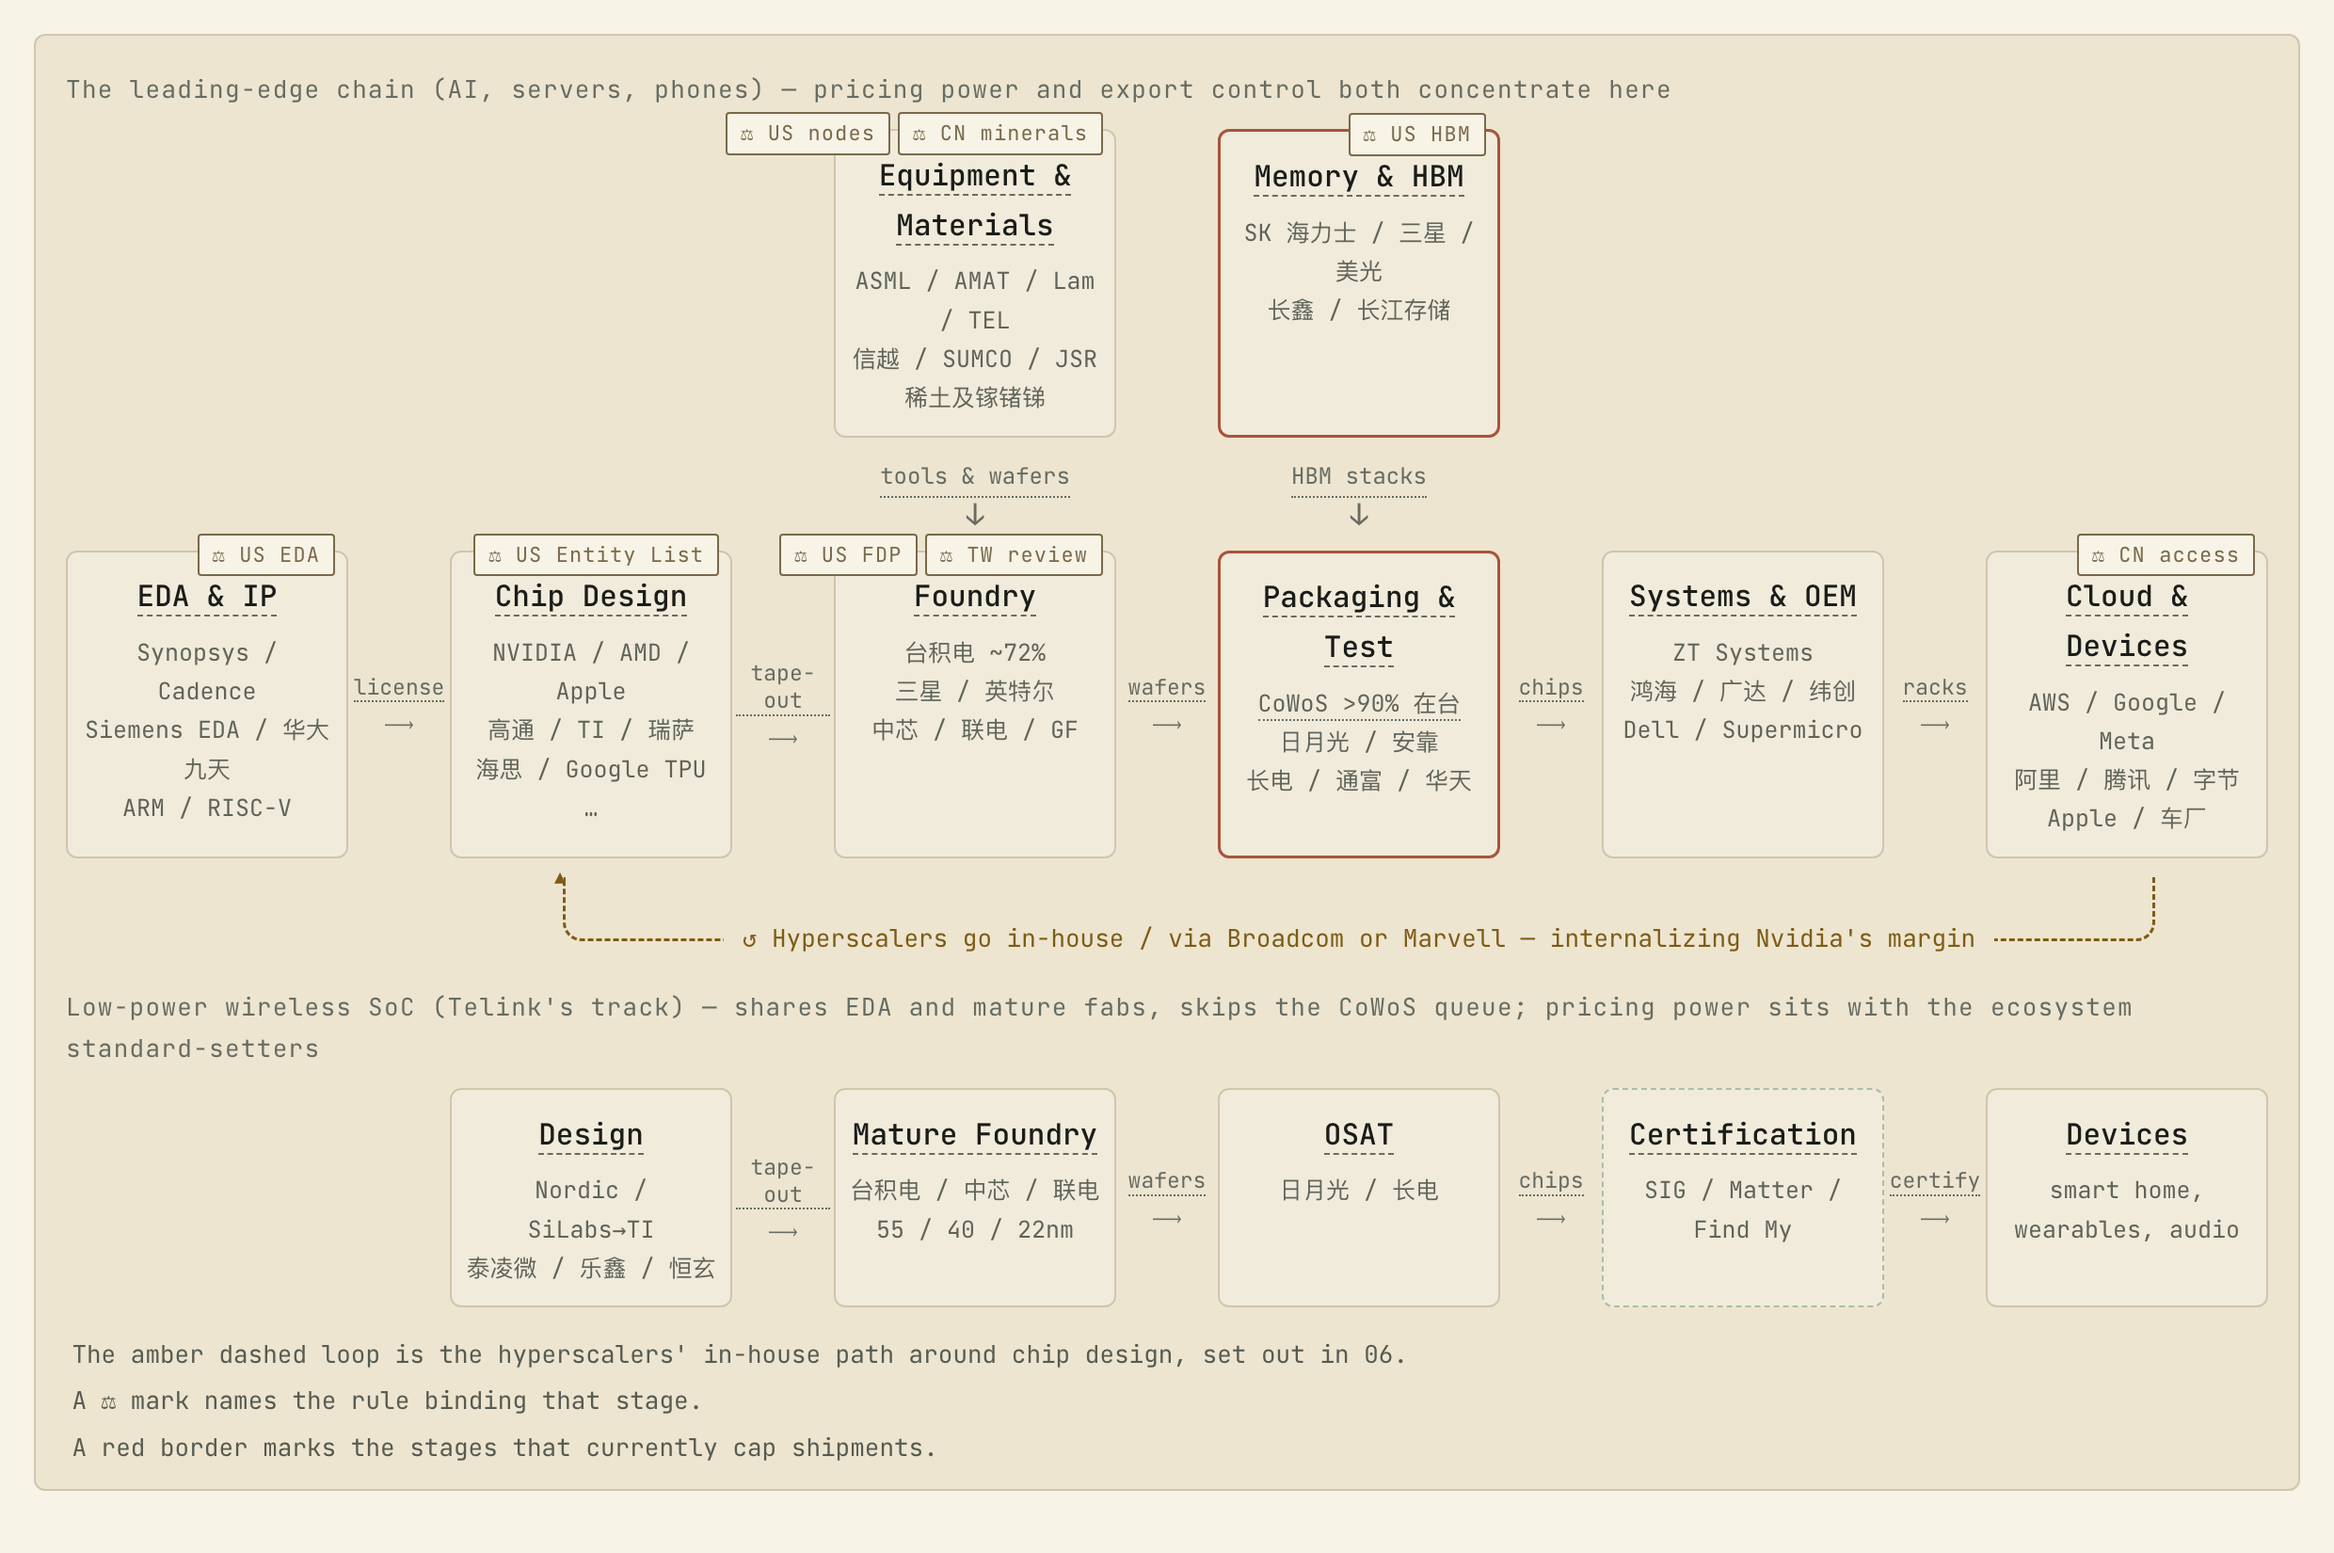
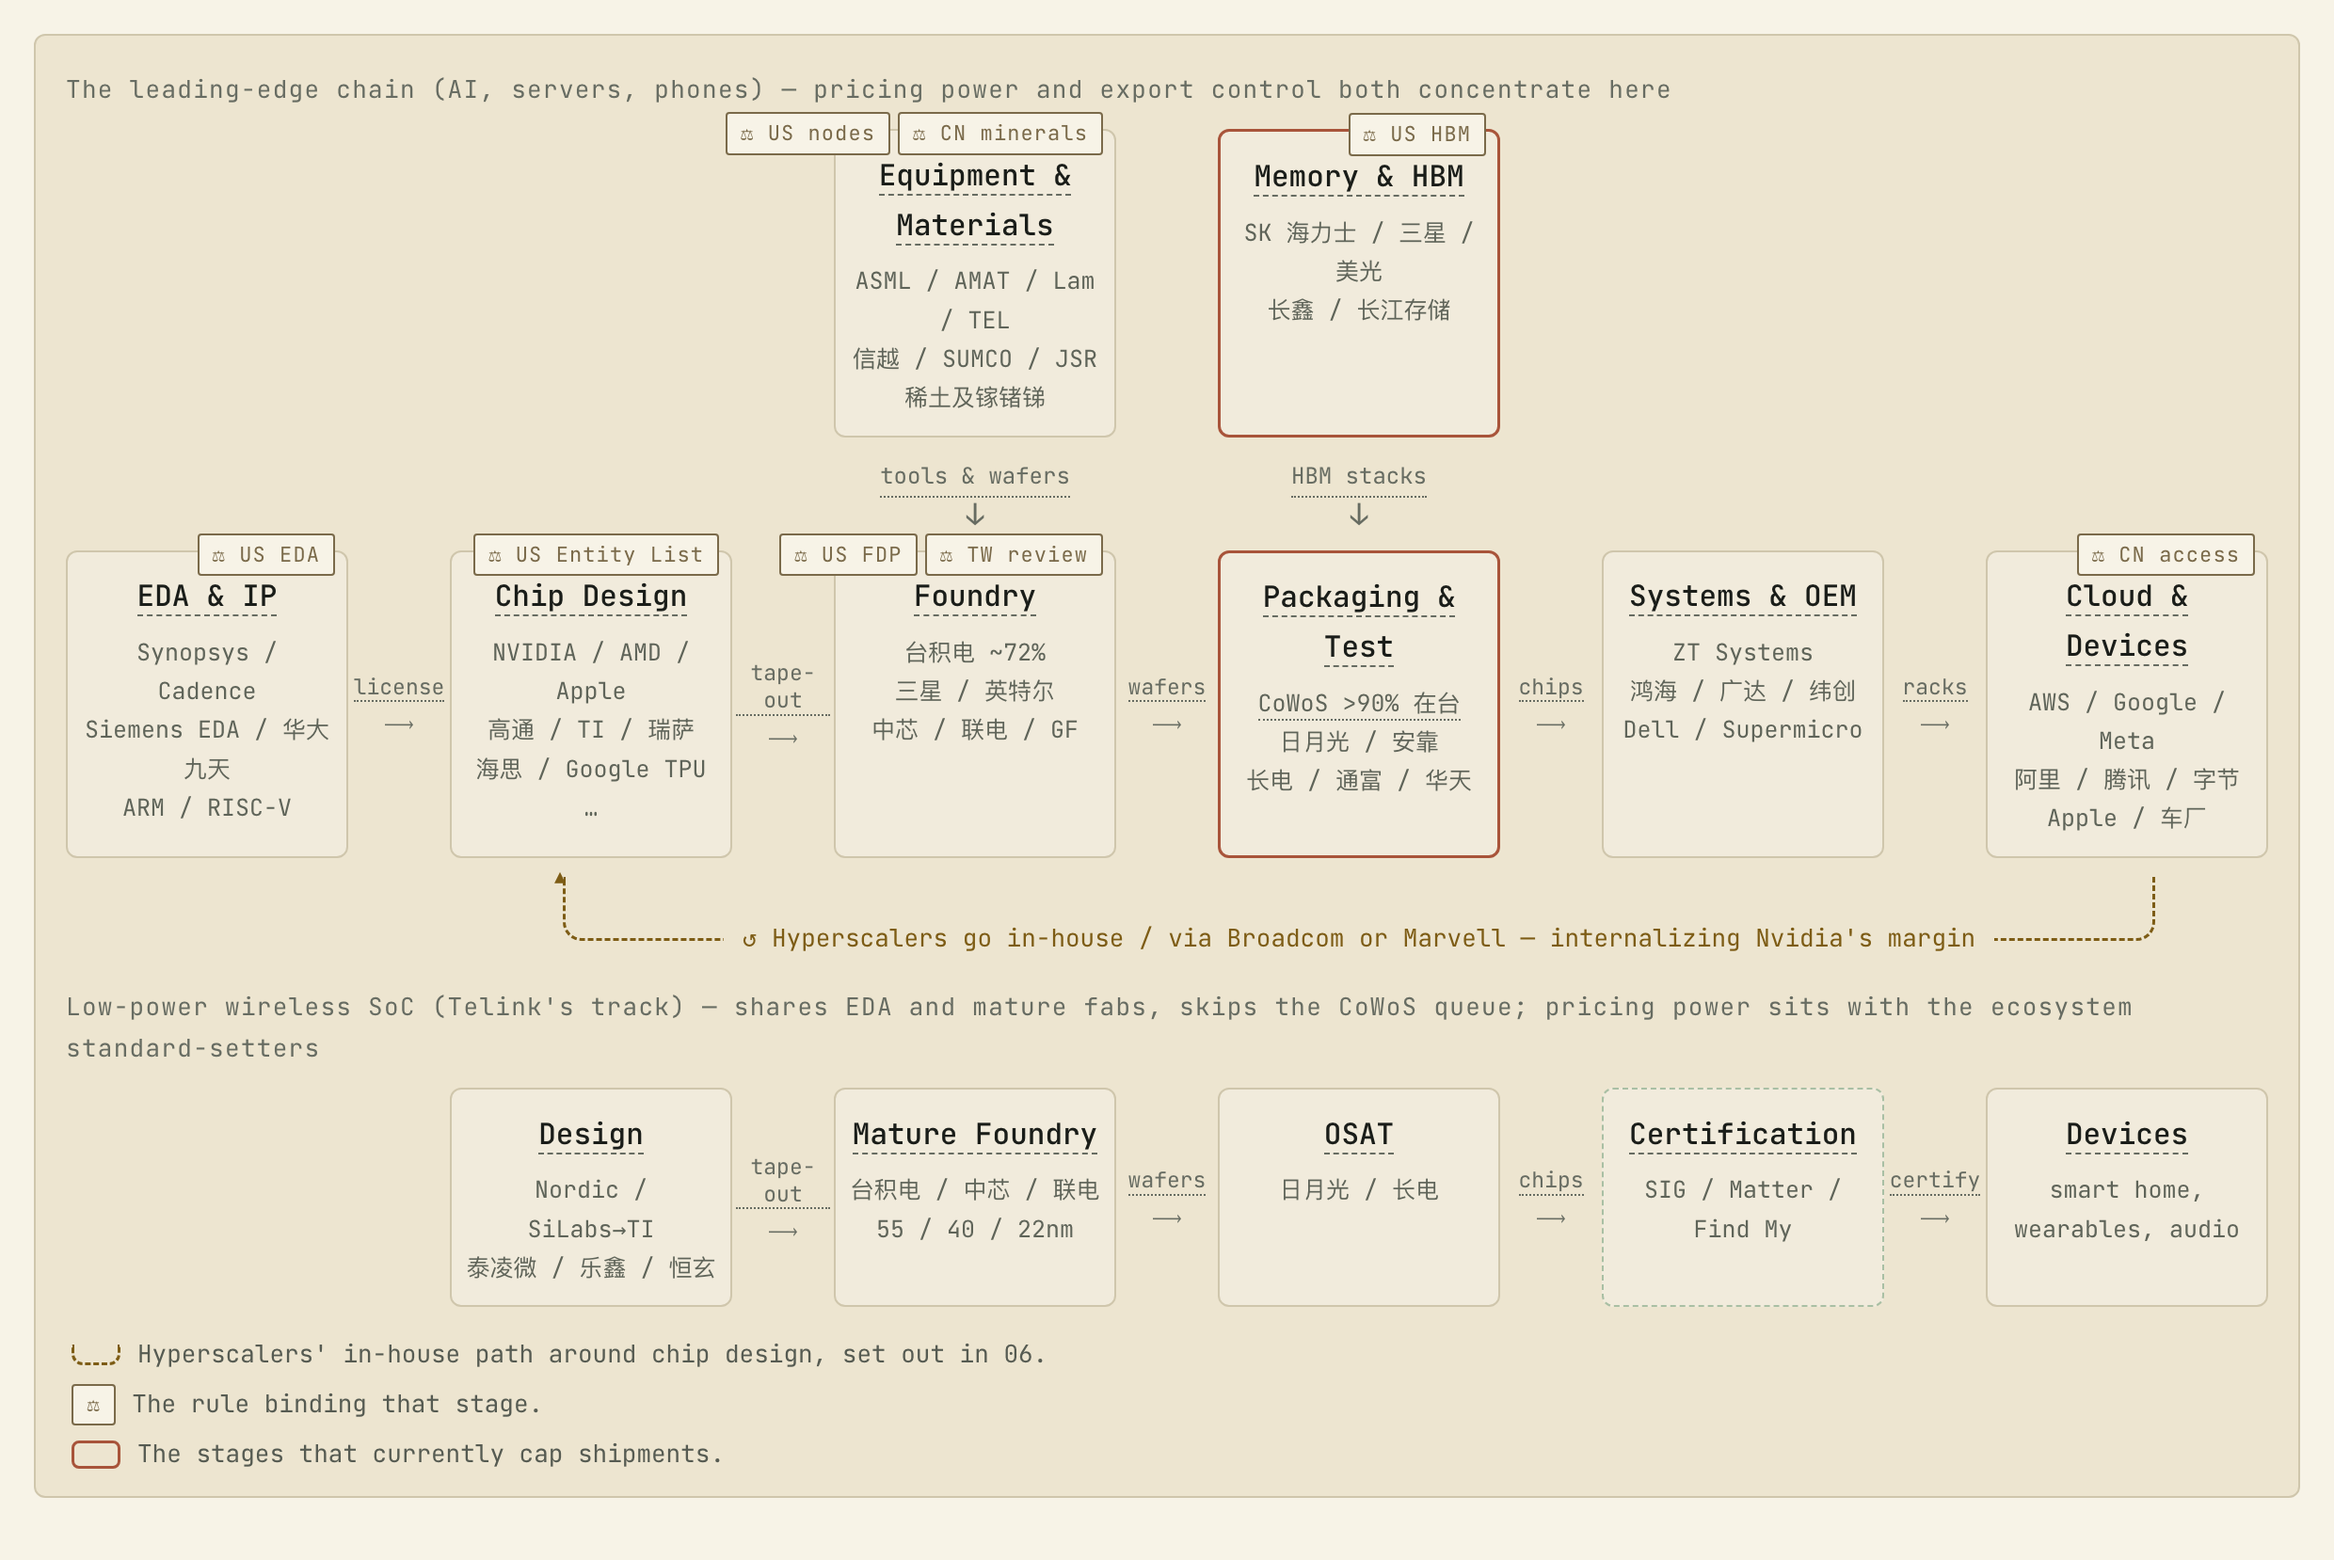
semis: draw the legend marks instead of describing them; lift tooltips over the filter bar
Caption: each line now carries the actual mark — the amber dashed loop,
the ⚖ pill, a red-bordered box — so the words only say what it means.
"琥珀色虚线为" and "红框标注" are gone with the descriptions.

Tooltips: .filterbar is position:sticky with z-index 40 and .tg-tip-box
was also 40, so with the filter bar now below the map in the DOM it won
on source order and painted over the jurisdiction tooltips, which open
downward into it. Base tooltip z-index goes to 60 — verified with
elementFromPoint over all three jurisdiction cards and the chips, none
covered. The two z-index:60 patches in the mobile block existed only for
this fight and come out.

Figures re-captured.

diff --git a/quartz/static/semis/value-chain-map.html b/quartz/static/semis/value-chain-map.html
@@ -76,7 +76,7 @@ tbody tr:nth-child(even){background:var(--zebra)}
   cursor:help;outline:none;transition:border-color .15s,color .15s}
 .tg-tip:hover,.tg-tip:focus-visible{border-bottom-color:var(--color-accent);
   color:var(--color-accent-light)}
-.tg-tip-box{position:absolute;bottom:calc(100% + 9px);left:50%;z-index:40;
+.tg-tip-box{position:absolute;bottom:calc(100% + 9px);left:50%;z-index:60;
   width:max-content;max-width:min(360px,82vw);padding:.6rem .75rem;
   border:1px solid var(--color-border-hover);border-radius:5px;
   background:var(--color-surface-raised);box-shadow:0 8px 28px var(--shadow-pop);
@@ -287,8 +287,13 @@ h1.article-title{font-size:26px}
 .fig .tipR .tg-tip-box::after{left:auto;right:18px;margin-left:0}
 .fig figcaption{font-size:13px;color:var(--color-text-dim);margin:.9rem .2rem 0;
   line-height:1.65}
-.fig figcaption .capline{display:block}
-.fig figcaption .capline+.capline{margin-top:.2rem}
+.fig figcaption .capline{display:flex;align-items:center;gap:.55rem}
+.fig figcaption .capline+.capline{margin-top:.3rem}
+.fig figcaption .sw{flex:0 0 auto;width:26px;height:11px;box-sizing:border-box}
+.fig figcaption .sw-loop{border:1.5px dashed var(--color-accent-amber);border-top:none;
+  border-radius:0 0 6px 6px}
+.fig figcaption .sw-hot{border:1.5px solid var(--hot);border-radius:4px;height:15px}
+.fig figcaption .fpill{cursor:default}
 #mapwrap:has(#r-us:checked) .fig .sr:not(.sr-us),
 #mapwrap:has(#r-tw:checked) .fig .sr:not(.sr-tw),
 #mapwrap:has(#r-cn:checked) .fig .sr:not(.sr-cn),
@@ -311,11 +316,11 @@ h1.article-title{font-size:26px}
   .chips{position:relative}
   .chip{position:static}
   .chip .tg-tip-box{left:0;right:0;top:calc(100% + 8px);
-    width:auto;max-width:none;transform:translateY(-4px);z-index:60}
+    width:auto;max-width:none;transform:translateY(-4px)}
   .chip:hover .tg-tip-box,.chip:focus-within .tg-tip-box{transform:translateY(0)}
   .chip .tg-tip-box::after{display:none}
   .govcard .tg-tip-box{left:0;right:0;width:auto;max-width:none;
-    transform:translateY(-4px);z-index:60}
+    transform:translateY(-4px)}
   .govcard:hover .tg-tip-box,.govcard:focus-within .tg-tip-box{transform:translateY(0)}
   .fig .tg-tip-box{max-width:min(330px,78vw)}
   .tg-tip-box{font-size:15px;padding:.8rem .9rem}
@@ -368,7 +373,7 @@ h1.article-title{font-size:26px}
 <div class="fcon" style="grid-row:7;grid-column:8"><span class="tg-tip " tabindex="0"><span class="tg-lang zh">芯片</span><span class="tg-lang en">chips</span><span class="tg-tip-box"><span class="tg-lang zh">封好、测完、挑掉坏品之后的成品芯片。</span><span class="tg-lang en">Finished chips: packaged, tested, bad parts culled.</span></span></span><span class="ar">⟶</span></div>
 <div class="fbox dashed" style="grid-row:7;grid-column:9"><span class="ft"><span class="tg-tip " tabindex="0"><span class="tg-lang zh">认证与生态</span><span class="tg-lang en">Certification</span><span class="tg-tip-box"><span class="tg-lang zh"><b>认证与生态</b>。芯片厂控制不了的一道门：Bluetooth SIG、Matter、Find My、各国无线电核准决定「什么算能用的设备」。<b>这道门是这条赛道定价权不在芯片厂手上的原因。</b></span><span class="tg-lang en"><b>Certification & ecosystems</b> — a gate the chip vendor does not control: Bluetooth SIG, Matter, Find My and radio approvals decide what counts as a working device. <b>This gate is why pricing power on this branch does not sit with chip makers.</b></span></span></span></span><span class="fp"><span class="sr sr-gl">SIG / Matter / Find My</span></span></div>
 <div class="fcon" style="grid-row:7;grid-column:10"><span class="tg-tip " tabindex="0"><span class="tg-lang zh">进生态</span><span class="tg-lang en">certify</span><span class="tg-tip-box"><span class="tg-lang zh">过了认证才能进 Apple / Google / Amazon 的生态。进不去，芯片再好也卖不动。</span><span class="tg-lang en">Certification is the ticket into the Apple / Google / Amazon ecosystems. Without it, a better chip still does not sell.</span></span></span><span class="ar">⟶</span></div>
-<div class="fbox" style="grid-row:7;grid-column:11"><span class="ft"><span class="tg-tip tipR " tabindex="0"><span class="tg-lang zh">终端</span><span class="tg-lang en">Devices</span><span class="tg-tip-box"><span class="tg-lang zh"><b>终端</b>。智能家居、穿戴、音频。一颗芯片几毛到几美元，一辆车、一间屋子里有几十上百颗。</span><span class="tg-lang en"><b>End devices</b> — smart home, wearables, audio. Cents to dollars per chip; dozens to hundreds per car or household.</span></span></span></span><span class="fp"><span class="tg-lang zh">智能家居、穿戴、音频</span><span class="tg-lang en">smart home, wearables, audio</span></span></div></div><figcaption><span class="capline"><span class="tg-lang zh">琥珀色虚线为云厂商绕过芯片设计的自研回路，详见 06。</span><span class="tg-lang en">The amber dashed loop is the hyperscalers' in-house path around chip design, set out in 06.</span></span><span class="capline"><span class="tg-lang zh">⚖ 标注约束该环节的具体规则。</span><span class="tg-lang en">A ⚖ mark names the rule binding that stage.</span></span><span class="capline"><span class="tg-lang zh">红框标注当前真正限制出货的环节。</span><span class="tg-lang en">A red border marks the stages that currently cap shipments.</span></span></figcaption></figure>
+<div class="fbox" style="grid-row:7;grid-column:11"><span class="ft"><span class="tg-tip tipR " tabindex="0"><span class="tg-lang zh">终端</span><span class="tg-lang en">Devices</span><span class="tg-tip-box"><span class="tg-lang zh"><b>终端</b>。智能家居、穿戴、音频。一颗芯片几毛到几美元，一辆车、一间屋子里有几十上百颗。</span><span class="tg-lang en"><b>End devices</b> — smart home, wearables, audio. Cents to dollars per chip; dozens to hundreds per car or household.</span></span></span></span><span class="fp"><span class="tg-lang zh">智能家居、穿戴、音频</span><span class="tg-lang en">smart home, wearables, audio</span></span></div></div><figcaption><span class="capline"><i class="sw sw-loop"></i><span class="tg-lang zh">云厂商绕过芯片设计的自研回路，详见 06。</span><span class="tg-lang en">Hyperscalers' in-house path around chip design, set out in 06.</span></span><span class="capline"><span class="fpill">⚖</span><span class="tg-lang zh">约束该环节的具体规则。</span><span class="tg-lang en">The rule binding that stage.</span></span><span class="capline"><i class="sw sw-hot"></i><span class="tg-lang zh">当前真正限制出货的环节。</span><span class="tg-lang en">The stages that currently cap shipments.</span></span></figcaption></figure>
 <p class="govhead"><span class="tg-lang zh">三套管辖权——悬停看规则细节</span><span class="tg-lang en">Three jurisdictions — hover for the rules</span></p>
 <div class="govwrap"><div class="govcard g-us tg-tip" tabindex="0"><b>美国管辖 / US jurisdiction</b><em><span class="tg-lang zh">EDA / 设备 / 先进逻辑 / HBM</span><span class="tg-lang en">EDA / tools / leading-edge logic / HBM</span></em><span class="tg-tip-box"><span class="tg-lang zh"><b>FDP 规则 + 实体清单 + BIS 许可</b>。只要一件外国制造的产品是用美国技术「直接生产」的，美国就主张管辖权——不论它在哪造。这才是台积电受美国法律约束的原因。2022 年 10 月 7 日的规则设定了 16/14nm 逻辑、18nm DRAM、128 层 NAND 的门槛；2024 年 12 月又把 FDP 扩展到设备本身。</span><span class="tg-lang en"><b>FDP rule + Entity List + BIS licensing.</b> If a foreign-made item is the direct product of US technology, Washington claims jurisdiction — wherever it was made. That, not its customer list, is why TSMC is bound by US law. The 7 Oct 2022 rule set thresholds at 16/14nm logic, 18nm DRAM, 128-layer NAND; Dec 2024 extended FDP to equipment itself.</span></span></div><div class="govcard g-cn tg-tip" tabindex="0"><b>中国管辖 / China jurisdiction</b><em><span class="tg-lang zh">稀土 / 镓锗锑 / 最终用途</span><span class="tg-lang en">rare earths / Ga-Ge-Sb / end-use</span></em><span class="tg-tip-box"><span class="tg-lang zh"><b>0.1% 微量规则 + 两用物项管制</b>。2025 年 10 月 9 日商务部第 61/62 号公告：外国制造的商品只要含 0.1% 以上中国原产稀土，出口就需中国许可。<b>结构上与美国 FDP 规则同构。</b>釜山会晤后暂停至 2026 年 11 月 10 日。</span><span class="tg-lang en"><b>The 0.1% de minimis rule + dual-use controls.</b> MOFCOM Notices 61/62 of 9 Oct 2025: any foreign-made good with ≥0.1% Chinese-origin rare-earth content needs a Chinese export licence. <b>Structurally isomorphic to the US FDP rule.</b> Suspended after Busan until 10 Nov 2026.</span></span></div><div class="govcard g-tw tg-tip" tabindex="0"><b>台湾管辖 / Taiwan jurisdiction</b><em><span class="tg-lang zh">代工出海 / 制程外移</span><span class="tg-lang en">overseas fabs / node migration</span></em><span class="tg-tip-box"><span class="tg-lang zh"><b>N-1 原则 + 产创条例第 22 条</b>。海外制程至少落后本土一代。<b>从来不是成文禁令，而是通过投资审查行使的裁量性规范</b>，2025 年 1 月 11 日被经济部长公开松绑，此后持续放宽。</span><span class="tg-lang en"><b>The N-1 rule + Article 22 review.</b> Overseas nodes must trail home by a generation. <b>Never a codified ban — a discretionary norm applied through investment review</b>, publicly relaxed by the economics minister on 11 Jan 2025 and loosened since.</span></span></div></div>
 <div class="filterbar"><span class="ctrl-lab"><span class="tg-lang zh">地区筛选</span><span class="tg-lang en">Region filter</span></span><div class="legend"><label class="b-all" for="r-all"><span class="tg-lang zh">全部</span><span class="tg-lang en">All</span></label><label class="b-us" for="r-us"><span class="tg-lang zh">美国</span><span class="tg-lang en">US</span></label><label class="b-tw" for="r-tw"><span class="tg-lang zh">台湾</span><span class="tg-lang en">Taiwan</span></label><label class="b-cn" for="r-cn"><span class="tg-lang zh">中国大陆</span><span class="tg-lang en">China</span></label><label class="b-kr" for="r-kr"><span class="tg-lang zh">韩国</span><span class="tg-lang en">Korea</span></label><label class="b-jp" for="r-jp"><span class="tg-lang zh">日本</span><span class="tg-lang en">Japan</span></label><label class="b-eu" for="r-eu"><span class="tg-lang zh">欧洲</span><span class="tg-lang en">Europe</span></label></div></div>
